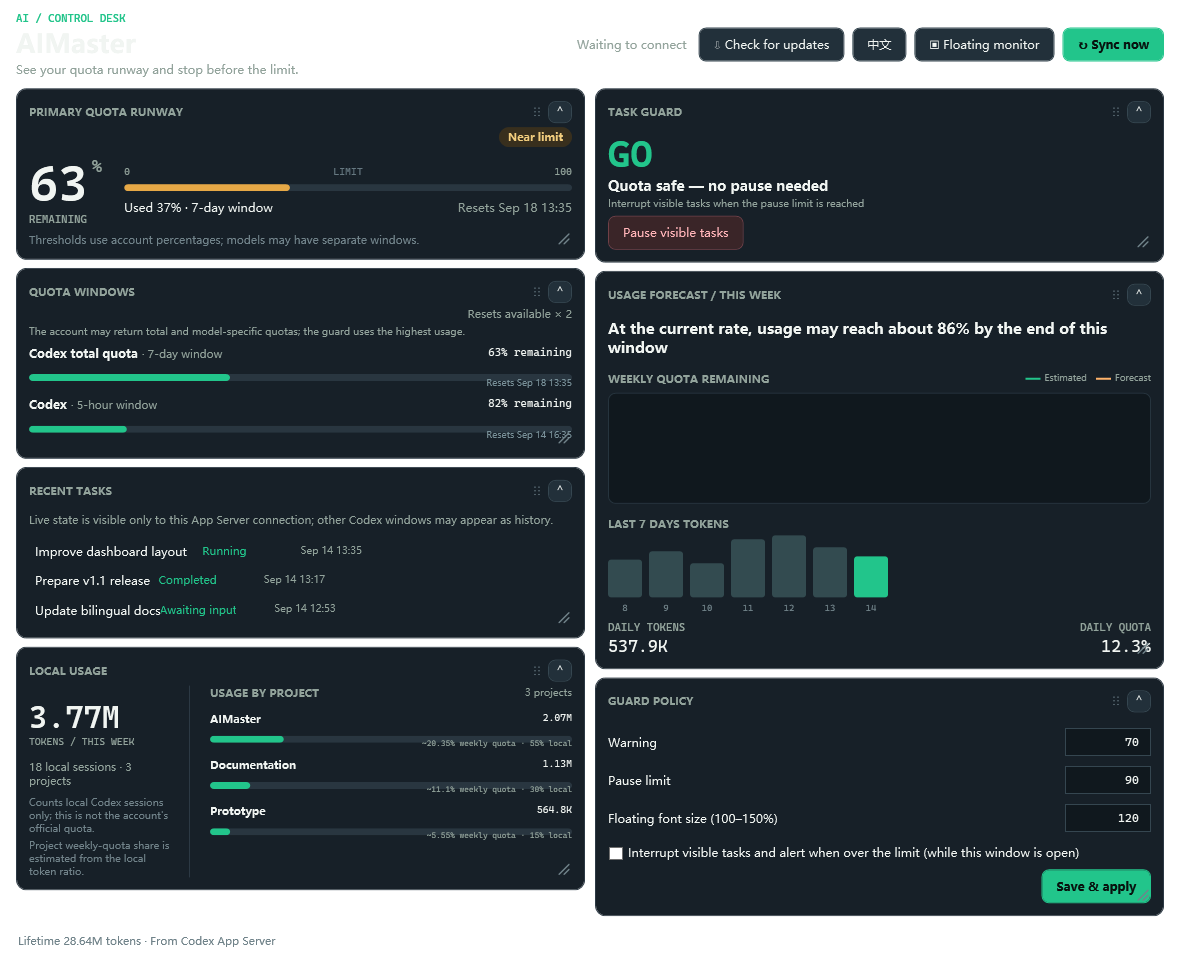
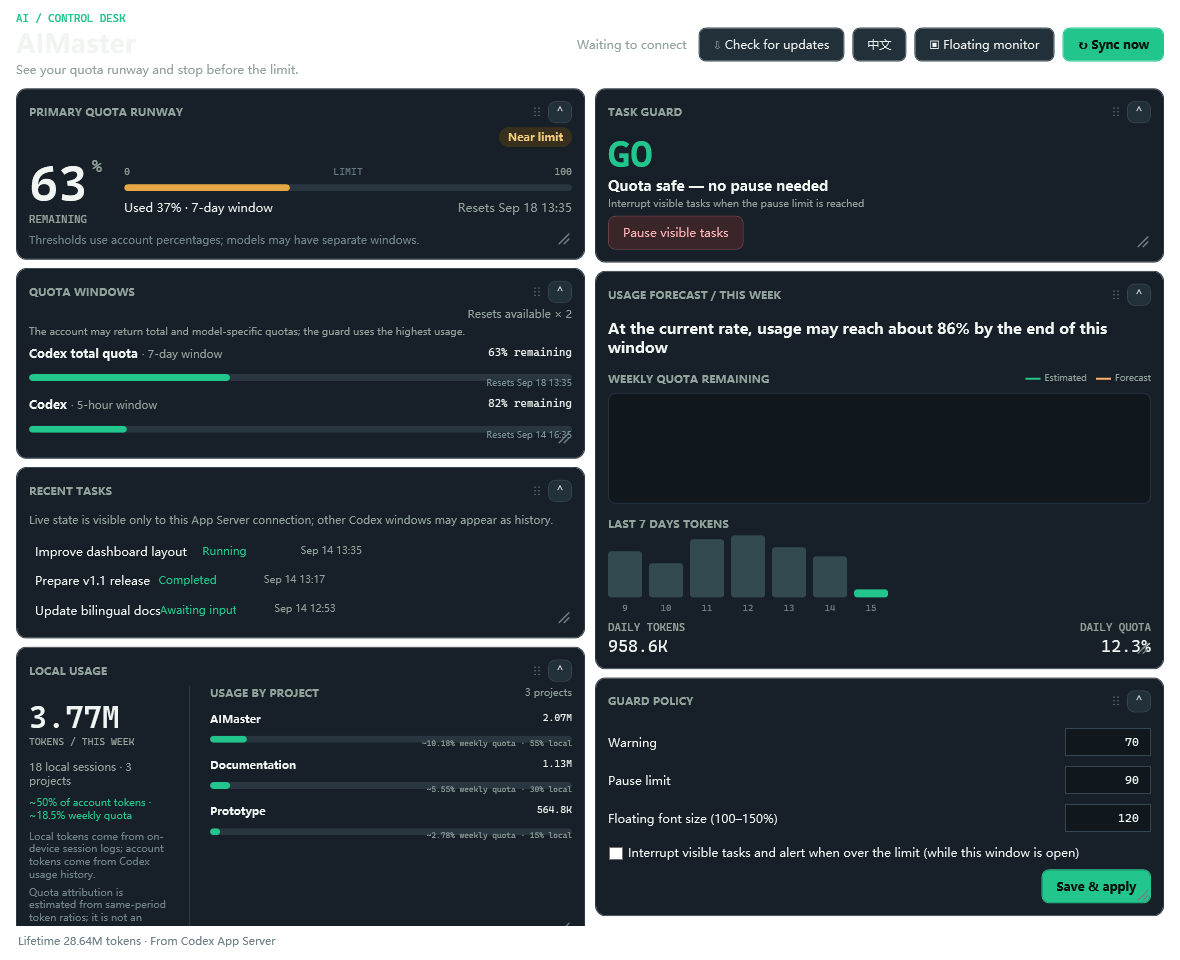
Release v1.1.2 local usage attribution fix

diff --git a/AiManagerWindow.xaml b/AiManagerWindow.xaml
@@ -312,9 +312,11 @@
                             <TextBlock Text="TOKEN / 本周" Foreground="{StaticResource Muted}" FontFamily="Cascadia Mono" FontSize="10"/>
                             <TextBlock x:Name="LocalUsageDetailText" Text="等待本地记录" Foreground="{StaticResource Muted}"
                                        FontSize="11" TextWrapping="Wrap" Margin="0,13,18,0"/>
-                            <TextBlock Text="仅统计本机 Codex 会话，不代表账户官方额度。" Foreground="#71838A"
+                            <TextBlock x:Name="LocalUsageEstimateText" Text="等待账户与本机记录" Foreground="{StaticResource Signal}"
                                        FontSize="10" TextWrapping="Wrap" Margin="0,8,18,0"/>
-                            <TextBlock Text="项目周额度占比按本机 Token 比例估算。" Foreground="#71838A"
+                            <TextBlock Text="本机 Token 来自本地会话日志；账户 Token 来自 Codex 用量历史。" Foreground="#71838A"
+                                       FontSize="10" TextWrapping="Wrap" Margin="0,8,18,0"/>
+                            <TextBlock Text="额度占比按同周期 Token 比例估算，不等于官方设备账单。" Foreground="#71838A"
                                        FontSize="10" TextWrapping="Wrap" Margin="0,5,18,0"/>
                         </StackPanel>
                         <Border Grid.Column="1" Background="{StaticResource Line}"/>

diff --git a/tests/AIMaster.Smoke/Program.cs b/tests/AIMaster.Smoke/Program.cs
@@ -373,6 +373,7 @@ internal static partial class Program
         var timestamp = DateTimeOffset.Now.ToString("O");
         var alpha = Path.Combine(root, "alpha.jsonl");
         var beta = Path.Combine(root, "beta.jsonl");
+        var gamma = Path.Combine(root, "gamma.jsonl");
         File.WriteAllLines(alpha,
         [
             $"{{\"timestamp\":\"{timestamp}\",\"type\":\"session_meta\",\"payload\":{{\"cwd\":\"C:\\\\Work\\\\Alpha\"}}}}",
@@ -382,23 +383,30 @@ internal static partial class Program
         File.WriteAllLines(beta,
         [
             $"{{\"timestamp\":\"{timestamp}\",\"type\":\"turn_context\",\"payload\":{{\"cwd\":\"C:\\\\Work\\\\Beta\"}}}}",
-            $"{{\"timestamp\":\"{timestamp}\",\"type\":\"token_usage_record\",\"payload\":{{\"usage\":{{\"total_tokens\":4000}}}}}}"
+            $"{{\"timestamp\":\"{timestamp}\",\"type\":\"token_usage_record\",\"payload\":{{\"usage\":{{\"total_tokens\":4000}}}}}}",
+            $"{{\"timestamp\":\"{timestamp}\",\"type\":\"event_msg\",\"payload\":{{\"type\":\"token_count\",\"info\":{{\"total_token_usage\":{{\"total_tokens\":9000}},\"last_token_usage\":{{\"total_tokens\":500}}}}}}}}"
+        ]);
+        File.WriteAllLines(gamma,
+        [
+            $"{{\"timestamp\":\"{timestamp}\",\"type\":\"turn_context\",\"payload\":{{\"cwd\":\"C:\\\\Work\\\\Gamma\"}}}}",
+            $"{{\"timestamp\":\"{timestamp}\",\"type\":\"event_msg\",\"payload\":{{\"type\":\"token_count\",\"info\":{{\"total_token_usage\":{{\"total_tokens\":500}},\"last_token_usage\":{{\"total_tokens\":500}}}}}}}}"
         ]);
         try
         {
             var service = new AiManagerService();
             var today = DateOnly.FromDateTime(DateTime.Now);
             var first = service.ReadLocalUsageSummary(root, today);
-            Check(first.TotalTokens == 7000 && first.SessionCount == 2 && first.Projects.Count == 2 &&
-                  first.Projects[0].ProjectName == "Beta" && first.Projects[0].Tokens == 4000,
-                "local usage sums response tokens and groups them by project directory");
+            Check(first.TotalTokens == 7500 && first.SessionCount == 3 && first.Projects.Count == 3 &&
+                  first.Projects[0].ProjectName == "Beta" && first.Projects[0].Tokens == 4000 &&
+                  first.Projects.Single(item => item.ProjectName == "Gamma").Tokens == 500,
+                "local usage prefers response records, falls back to legacy increments, and groups by project directory");
 
             File.AppendAllLines(beta,
             [
                 $"{{\"timestamp\":\"{timestamp}\",\"type\":\"token_usage_record\",\"payload\":{{\"usage\":{{\"total_tokens\":1000}}}}}}"
             ]);
             var second = service.ReadLocalUsageSummary(root, today);
-            Check(second.TotalTokens == 8000 && second.Projects.Single(item => item.ProjectName == "Beta").Tokens == 5000,
+            Check(second.TotalTokens == 8500 && second.Projects.Single(item => item.ProjectName == "Beta").Tokens == 5000,
                 "local usage incrementally reads appended token records without double counting");
             service.DisposeAsync().AsTask().GetAwaiter().GetResult();
         }
@@ -412,6 +420,8 @@ internal static partial class Program
     {
         var usage = new AiLocalUsageSummary
         {
+            PeriodStart = new DateOnly(2026, 9, 14),
+            PeriodEnd = new DateOnly(2026, 9, 20),
             TotalTokens = 10_000,
             Projects =
             [
@@ -427,10 +437,25 @@ internal static partial class Program
                 }
             ]
         };
-        var projects = AiManagerWindow.BuildProjectQuotaUsage(usage, 40);
-        Check(Math.Abs(projects[0].WeeklyQuotaPercent!.Value - 10) < 0.001 &&
-              Math.Abs(projects[1].WeeklyQuotaPercent!.Value - 30) < 0.001,
-            "project usage attributes the official weekly quota by local token share");
+        var accountUsage = new[]
+        {
+            new AiDailyUsage { Date = new DateOnly(2026, 9, 14), Tokens = 12_000 },
+            new AiDailyUsage { Date = new DateOnly(2026, 9, 15), Tokens = 28_000 },
+            new AiDailyUsage { Date = new DateOnly(2026, 9, 13), Tokens = 99_000 }
+        };
+        var estimate = AiManagerWindow.EstimateLocalQuotaUsage(usage, accountUsage, 40);
+        var projects = AiManagerWindow.BuildProjectQuotaUsage(usage, estimate.EstimatedQuotaPercent);
+        Check(estimate.AccountTokens == 40_000 &&
+              Math.Abs(estimate.AccountTokenSharePercent!.Value - 25) < 0.001 &&
+              Math.Abs(estimate.EstimatedQuotaPercent!.Value - 10) < 0.001 &&
+              Math.Abs(projects[0].WeeklyQuotaPercent!.Value - 2.5) < 0.001 &&
+              Math.Abs(projects[1].WeeklyQuotaPercent!.Value - 7.5) < 0.001,
+            "local quota attribution first removes other devices, then distributes the device estimate by project");
+
+        var incomplete = AiManagerWindow.EstimateLocalQuotaUsage(usage,
+            [new AiDailyUsage { Date = new DateOnly(2026, 9, 14), Tokens = 5_000 }], 40);
+        Check(incomplete.AccountTokenSharePercent is null && incomplete.EstimatedQuotaPercent is null,
+            "incomplete account history never fabricates a per-device quota estimate");
     }
 
     [GeneratedRegex("[\\u3400-\\u9FFF]")]

diff --git a/AiManagerWindow.xaml.cs b/AiManagerWindow.xaml.cs
@@ -709,7 +709,7 @@ public partial class AiManagerWindow : Window
             .Where(item => item.WindowDurationMinutes is >= 6 * 24 * 60 and <= 8 * 24 * 60)
             .OrderBy(item => Math.Abs(item.WindowDurationMinutes - 7 * 24 * 60))
             .FirstOrDefault();
-        RenderLocalUsage(snapshot.LocalUsage, weeklyLimit?.UsedPercent);
+        RenderLocalUsage(snapshot.LocalUsage, snapshot.DailyUsage, weeklyLimit?.UsedPercent);
         FooterStatusText.Text = snapshot.LifetimeTokens is { } lifetime
             ? (LocalizationService.IsEnglish ? $"Lifetime {FormatTokens(lifetime)} tokens · From Codex App Server" : $"累计 {FormatTokens(lifetime)} tokens · 数据来自 Codex App Server")
             : L("数据来自 Codex App Server；认证由 Codex 管理。", "Data comes from Codex App Server; authentication is managed by Codex.");
@@ -896,25 +896,55 @@ public partial class AiManagerWindow : Window
         }
     }
 
-    private void RenderLocalUsage(AiLocalUsageSummary usage, double? weeklyUsedPercent)
+    private void RenderLocalUsage(AiLocalUsageSummary usage, IReadOnlyCollection<AiDailyUsage> accountDailyUsage,
+        double? weeklyUsedPercent)
     {
+        var estimate = EstimateLocalQuotaUsage(usage, accountDailyUsage, weeklyUsedPercent);
         LocalUsageTokensText.Text = FormatTokens(usage.TotalTokens);
         LocalUsageDetailText.Text = LocalizationService.IsEnglish
             ? $"{usage.SessionCount} local sessions · {usage.Projects.Count} projects"
             : $"{usage.SessionCount} 个本机会话 · {usage.Projects.Count} 个项目";
+        LocalUsageEstimateText.Text = estimate.AccountTokenSharePercent is { } accountShare
+            ? estimate.EstimatedQuotaPercent is { } quota
+                ? LocalizationService.IsEnglish
+                    ? $"~{accountShare:0.#}% of account tokens · ~{quota:0.##}% weekly quota"
+                    : $"约占账户 {accountShare:0.#}% Token · 约 {quota:0.##}% 周额度"
+                : LocalizationService.IsEnglish
+                    ? $"~{accountShare:0.#}% of account tokens · quota estimate unavailable"
+                    : $"约占账户 {accountShare:0.#}% Token · 周额度估算不可用"
+            : usage.TotalTokens > 0
+                ? LocalizationService.L("账户 Token 历史不足，仅显示本机原始 Token",
+                    "Account token history is incomplete; showing local raw tokens only")
+                : LocalizationService.L("本周暂无本机 Token", "No local tokens this week");
         ProjectUsageCountText.Text = usage.Projects.Count > 6
             ? (LocalizationService.IsEnglish ? $"Top 6 of {usage.Projects.Count}" : $"前 6 / 共 {usage.Projects.Count}")
             : (LocalizationService.IsEnglish ? $"{usage.Projects.Count} projects" : $"共 {usage.Projects.Count} 个项目");
-        var visibleProjects = BuildProjectQuotaUsage(usage, weeklyUsedPercent).Take(6).ToList();
+        var visibleProjects = BuildProjectQuotaUsage(usage, estimate.EstimatedQuotaPercent).Take(6).ToList();
         ProjectUsageItems.ItemsSource = visibleProjects;
         ProjectUsageItems.Visibility = visibleProjects.Count == 0 ? Visibility.Collapsed : Visibility.Visible;
         LocalUsageEmptyText.Visibility = visibleProjects.Count == 0 ? Visibility.Visible : Visibility.Collapsed;
     }
 
-    internal static IReadOnlyList<AiProjectUsage> BuildProjectQuotaUsage(
-        AiLocalUsageSummary usage, double? weeklyUsedPercent)
+    internal static AiLocalQuotaEstimate EstimateLocalQuotaUsage(
+        AiLocalUsageSummary usage, IEnumerable<AiDailyUsage> accountDailyUsage, double? weeklyUsedPercent)
     {
-        var normalizedWeeklyUsage = weeklyUsedPercent is { } value
+        var accountTokens = accountDailyUsage
+            .Where(item => item.Date >= usage.PeriodStart && item.Date <= usage.PeriodEnd)
+            .Sum(item => item.Tokens);
+        if (accountTokens <= 0 || usage.TotalTokens < 0 || usage.TotalTokens > accountTokens)
+            return new AiLocalQuotaEstimate(accountTokens, null, null);
+
+        var accountShare = usage.TotalTokens * 100d / accountTokens;
+        var quota = weeklyUsedPercent is { } value
+            ? Math.Clamp(value, 0, 100) * accountShare / 100d
+            : (double?)null;
+        return new AiLocalQuotaEstimate(accountTokens, accountShare, quota);
+    }
+
+    internal static IReadOnlyList<AiProjectUsage> BuildProjectQuotaUsage(
+        AiLocalUsageSummary usage, double? estimatedLocalQuotaPercent)
+    {
+        var normalizedLocalQuota = estimatedLocalQuotaPercent is { } value
             ? Math.Clamp(value, 0, 100)
             : (double?)null;
         return usage.Projects.Select(item => new AiProjectUsage
@@ -924,7 +954,7 @@ public partial class AiManagerWindow : Window
             Tokens = item.Tokens,
             SharePercent = item.SharePercent,
             SessionCount = item.SessionCount,
-            WeeklyQuotaPercent = normalizedWeeklyUsage * item.SharePercent / 100d
+            WeeklyQuotaPercent = normalizedLocalQuota * item.SharePercent / 100d
         }).ToList();
     }
 

diff --git a/Services/AiManagerService.cs b/Services/AiManagerService.cs
@@ -40,9 +40,10 @@ internal sealed class AiManagerService : IAsyncDisposable
         public readonly List<LocalUsageRecord> Records = new();
         public long Offset;
         public string? ProjectPath;
+        public bool HasTokenUsageRecords;
     }
 
-    private sealed record LocalUsageRecord(DateOnly Date, string ProjectPath, long Tokens);
+    private sealed record LocalUsageRecord(DateOnly Date, string ProjectPath, long Tokens, bool IsLegacy = false);
 
     public AiManagerService()
     {
@@ -422,8 +423,9 @@ internal sealed class AiManagerService : IAsyncDisposable
     internal AiLocalUsageSummary ReadLocalUsageSummary(string sessionsRoot, DateOnly weekStart,
         CancellationToken cancellationToken = default)
     {
-        if (!Directory.Exists(sessionsRoot)) return new AiLocalUsageSummary();
         var weekEnd = weekStart.AddDays(6);
+        if (!Directory.Exists(sessionsRoot))
+            return new AiLocalUsageSummary { PeriodStart = weekStart, PeriodEnd = weekEnd };
         var earliestWriteUtc = weekStart.ToDateTime(TimeOnly.MinValue).ToUniversalTime();
         var sessionRecords = new List<(string SessionPath, LocalUsageRecord Record)>();
 
@@ -458,6 +460,8 @@ internal sealed class AiManagerService : IAsyncDisposable
             .ToList();
         return new AiLocalUsageSummary
         {
+            PeriodStart = weekStart,
+            PeriodEnd = weekEnd,
             TotalTokens = total,
             SessionCount = sessionRecords.Select(item => item.SessionPath)
                 .Distinct(StringComparer.OrdinalIgnoreCase).Count(),
@@ -476,6 +480,7 @@ internal sealed class AiManagerService : IAsyncDisposable
             {
                 cursor.Offset = 0;
                 cursor.ProjectPath = null;
+                cursor.HasTokenUsageRecords = false;
                 cursor.Records.Clear();
                 cursor.PendingLine.SetLength(0);
             }
@@ -516,21 +521,47 @@ internal sealed class AiManagerService : IAsyncDisposable
                 cursor.ProjectPath = NormalizeProjectPath(ReadString(payload, "cwd")) ?? cursor.ProjectPath;
                 return;
             }
-            if (type != "token_usage_record" ||
-                !payload.TryGetProperty("usage", out var usage) || usage.ValueKind != JsonValueKind.Object)
-                return;
-            var tokens = ReadLong(usage, "total_tokens");
+            var isLegacy = false;
+            var tokens = type switch
+            {
+                // Current rollout records report one response at a time.
+                "token_usage_record" when payload.TryGetProperty("usage", out var usage) &&
+                                          usage.ValueKind == JsonValueKind.Object =>
+                    ReadLong(usage, "total_tokens"),
+                // Older token_count events expose both a cumulative total and the latest
+                // response. Use the latter so repeated snapshots are never double-counted.
+                "event_msg" when string.Equals(ReadString(payload, "type"), "token_count",
+                                     StringComparison.OrdinalIgnoreCase) &&
+                                 payload.TryGetProperty("info", out var info) &&
+                                 info.ValueKind == JsonValueKind.Object &&
+                                 info.TryGetProperty("last_token_usage", out var lastUsage) &&
+                                 lastUsage.ValueKind == JsonValueKind.Object =>
+                    ReadLegacyTokens(lastUsage, ref isLegacy),
+                _ => 0
+            };
             if (tokens <= 0) return;
+            if (type == "token_usage_record" && !cursor.HasTokenUsageRecords)
+            {
+                cursor.HasTokenUsageRecords = true;
+                cursor.Records.RemoveAll(item => item.IsLegacy);
+            }
+            if (isLegacy && cursor.HasTokenUsageRecords) return;
             var date = DateTimeOffset.TryParse(ReadString(root, "timestamp"), out var timestamp)
                 ? DateOnly.FromDateTime(timestamp.LocalDateTime)
                 : fallbackDate;
             cursor.Records.Add(new LocalUsageRecord(date,
-                cursor.ProjectPath ?? LocalizationService.L("未归属项目", "Unassigned"), tokens));
+                cursor.ProjectPath ?? LocalizationService.L("未归属项目", "Unassigned"), tokens, isLegacy));
         }
         catch (JsonException)
         {
             // An incomplete or malformed record does not invalidate the rest of the session.
         }
+    }
+
+    private static long ReadLegacyTokens(JsonElement lastUsage, ref bool isLegacy)
+    {
+        isLegacy = true;
+        return ReadLong(lastUsage, "total_tokens");
     }
 
     private static string? NormalizeProjectPath(string? path)

diff --git a/Services/LocalizationService.cs b/Services/LocalizationService.cs
@@ -83,8 +83,9 @@ public static class LocalizationService
         ["保护策略已保存并应用"] = "Guard policy saved and applied", ["设置已保存并应用"] = "Settings saved and applied",
         ["折叠卡片"] = "Collapse card", ["展开卡片"] = "Expand card", ["拖动调整布局"] = "Drag to rearrange",
         ["本机消耗"] = "LOCAL USAGE", ["TOKEN / 本周"] = "TOKENS / THIS WEEK",
-        ["等待本地记录"] = "Waiting for local records", ["仅统计本机 Codex 会话，不代表账户官方额度。"] = "Counts local Codex sessions only; this is not the account's official quota.",
-        ["项目周额度占比按本机 Token 比例估算。"] = "Project weekly-quota share is estimated from the local token ratio.",
+        ["等待本地记录"] = "Waiting for local records", ["等待账户与本机记录"] = "Waiting for account and local records",
+        ["本机 Token 来自本地会话日志；账户 Token 来自 Codex 用量历史。"] = "Local tokens come from on-device session logs; account tokens come from Codex usage history.",
+        ["额度占比按同周期 Token 比例估算，不等于官方设备账单。"] = "Quota attribution is estimated from same-period token ratios; it is not an official per-device bill.",
         ["项目消耗分布"] = "USAGE BY PROJECT", ["本周暂无本地 Token 记录"] = "No local token records this week",
         ["未归属项目"] = "Unassigned",
 

diff --git a/tests/AIMaster.Smoke/DocumentationScreenshotCapture.cs b/tests/AIMaster.Smoke/DocumentationScreenshotCapture.cs
@@ -86,7 +86,7 @@ internal static class DocumentationScreenshotCapture
                 .Select(index => new AiDailyUsage
                 {
                     Date = today.AddDays(index - 6),
-                    Tokens = dailyTokens[index]
+                    Tokens = dailyTokens[index] * 2
                 }).ToList(),
             Threads =
             [
@@ -108,6 +108,8 @@ internal static class DocumentationScreenshotCapture
             ],
             LocalUsage = new AiLocalUsageSummary
             {
+                PeriodStart = today.AddDays(-6),
+                PeriodEnd = today,
                 TotalTokens = 3_765_000,
                 SessionCount = 18,
                 Projects =

diff --git a/Models/AiManagerModels.cs b/Models/AiManagerModels.cs
@@ -128,10 +128,17 @@ public sealed class AiProjectUsage
 
 public sealed class AiLocalUsageSummary
 {
+    public DateOnly PeriodStart { get; init; }
+    public DateOnly PeriodEnd { get; init; }
     public long TotalTokens { get; init; }
     public int SessionCount { get; init; }
     public List<AiProjectUsage> Projects { get; init; } = new();
 }
+
+public sealed record AiLocalQuotaEstimate(
+    long AccountTokens,
+    double? AccountTokenSharePercent,
+    double? EstimatedQuotaPercent);
 
 public sealed class AiThreadSummary
 {

diff --git a/README.en.md b/README.en.md
@@ -16,7 +16,7 @@ AIMaster is a standalone Windows monitor for Codex quota and task activity. It b
 
 - View total Codex quota, 7-day and 5-hour windows, usage percentages, and reset times.
 - Forecast the remaining weekly quota from Monday through Sunday using recent consumption.
-- Track local Codex token usage by week and estimate each project's share of the official weekly quota.
+- Track this device's weekly Codex tokens and estimate device/project quota attribution from same-period account token history, without assigning multi-device usage entirely to the current machine.
 - Configure warning and pause thresholds; optionally interrupt tasks visible to the current App Server connection.
 - Collapse cards, drag their headers between two columns, and resize them from the lower-right corner. Layout and sizes persist automatically.
 - View recent tasks with running, waiting, interrupted, and completed states.

diff --git a/docs/USER-GUIDE.en.md b/docs/USER-GUIDE.en.md
@@ -13,7 +13,7 @@ The dashboard contains seven card types:
 3. **Quota windows** lists the weekly and short windows returned by the account.
 4. **Usage forecast** charts estimated and projected weekly quota remaining, plus the last seven days of usage.
 5. **Recent tasks** lists running, waiting, interrupted, paused, and completed tasks.
-6. **Local usage** totals this week's local tokens and estimates weekly-quota attribution by project.
+6. **Local usage** totals this device's weekly tokens and estimates device/project quota attribution from the ratio of local tokens to same-period account tokens; when account history is incomplete, only local tokens are shown.
 7. **Guard policy** configures warning and pause thresholds, automatic pausing, and floating-window text size.
 
 Select **Sync now** to reconnect to Codex and refresh all data.

diff --git a/docs/USER-GUIDE.md b/docs/USER-GUIDE.md
@@ -13,7 +13,7 @@
 3. **额度窗口**：列出账户返回的周窗口、短窗口及各自重置时间。
 4. **消耗预测**：用折线图展示本周剩余额度估算和未来预测，并汇总近 7 日用量。
 5. **最近任务**：显示进行中、等待输入、已中断/暂停和已完成的任务。
-6. **本机消耗**：汇总本周本机 Token，并按项目估算周额度占比。
+6. **本机消耗**：汇总本周本机 Token，并用“本机 Token ÷ 账号同周期 Token”估算当前设备及各项目的周额度占比；账号历史不完整时只显示本机 Token。
 7. **保护策略**：设置预警线、暂停线、自动暂停和浮窗字号。
 
 点击“立即同步”会重新连接 Codex 并刷新全部数据。语言按钮可在中文和英文之间即时切换。
